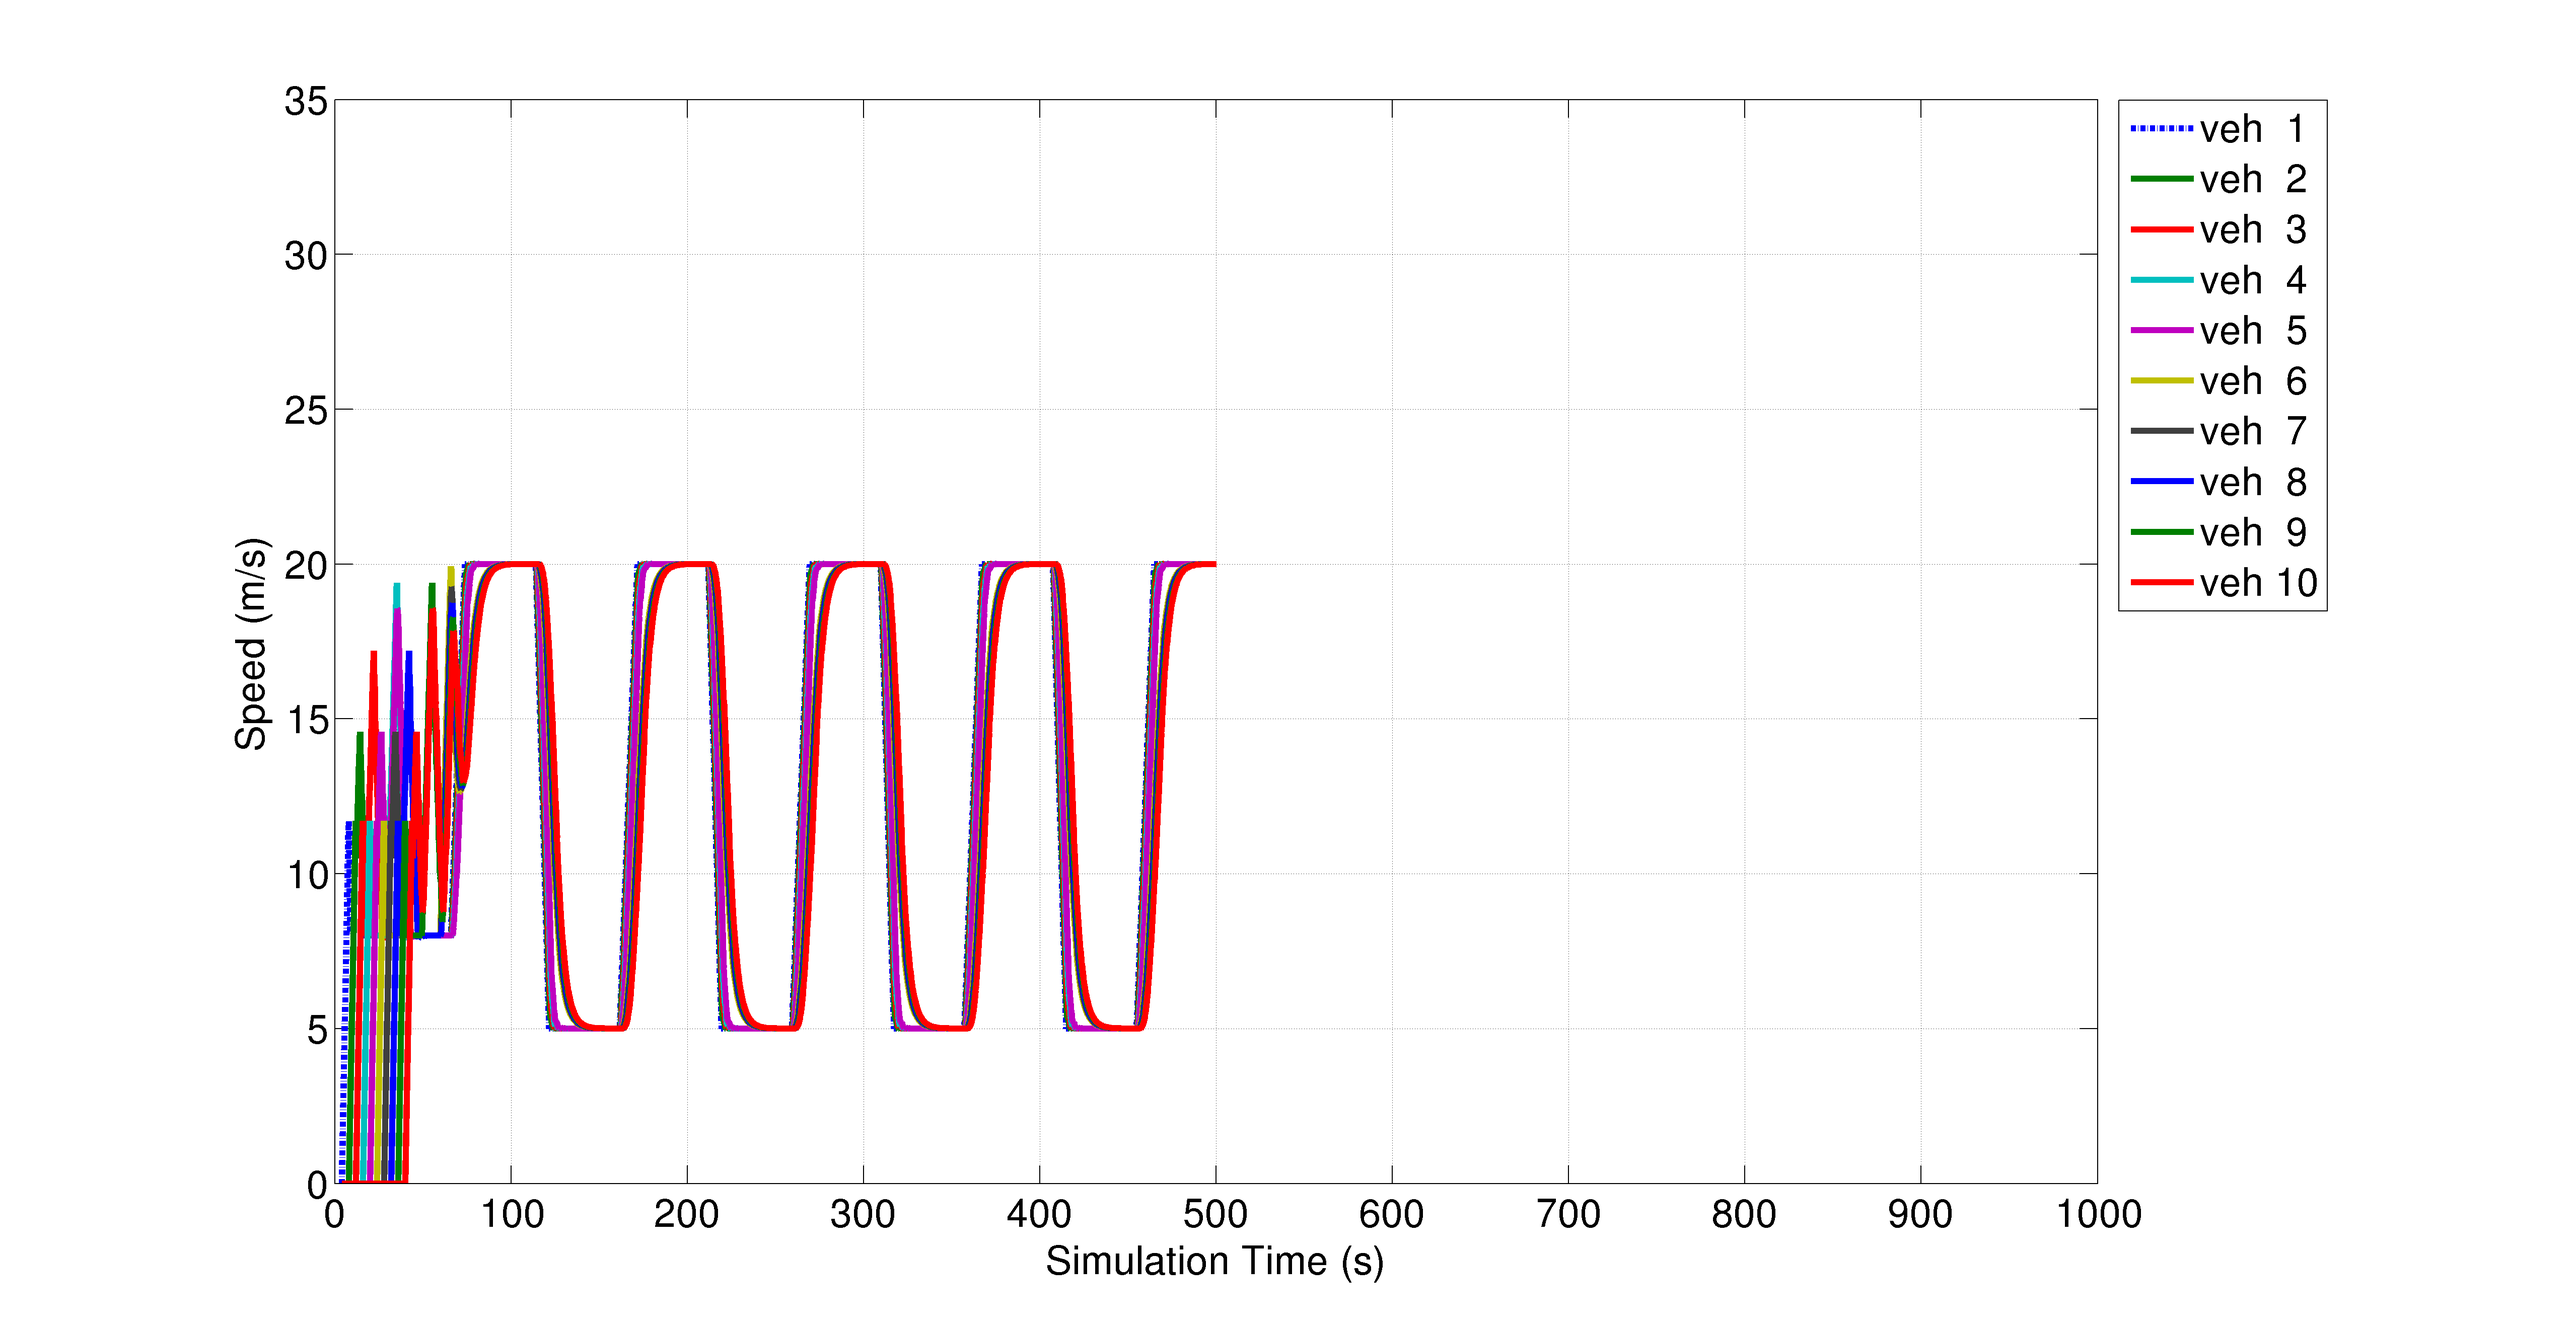
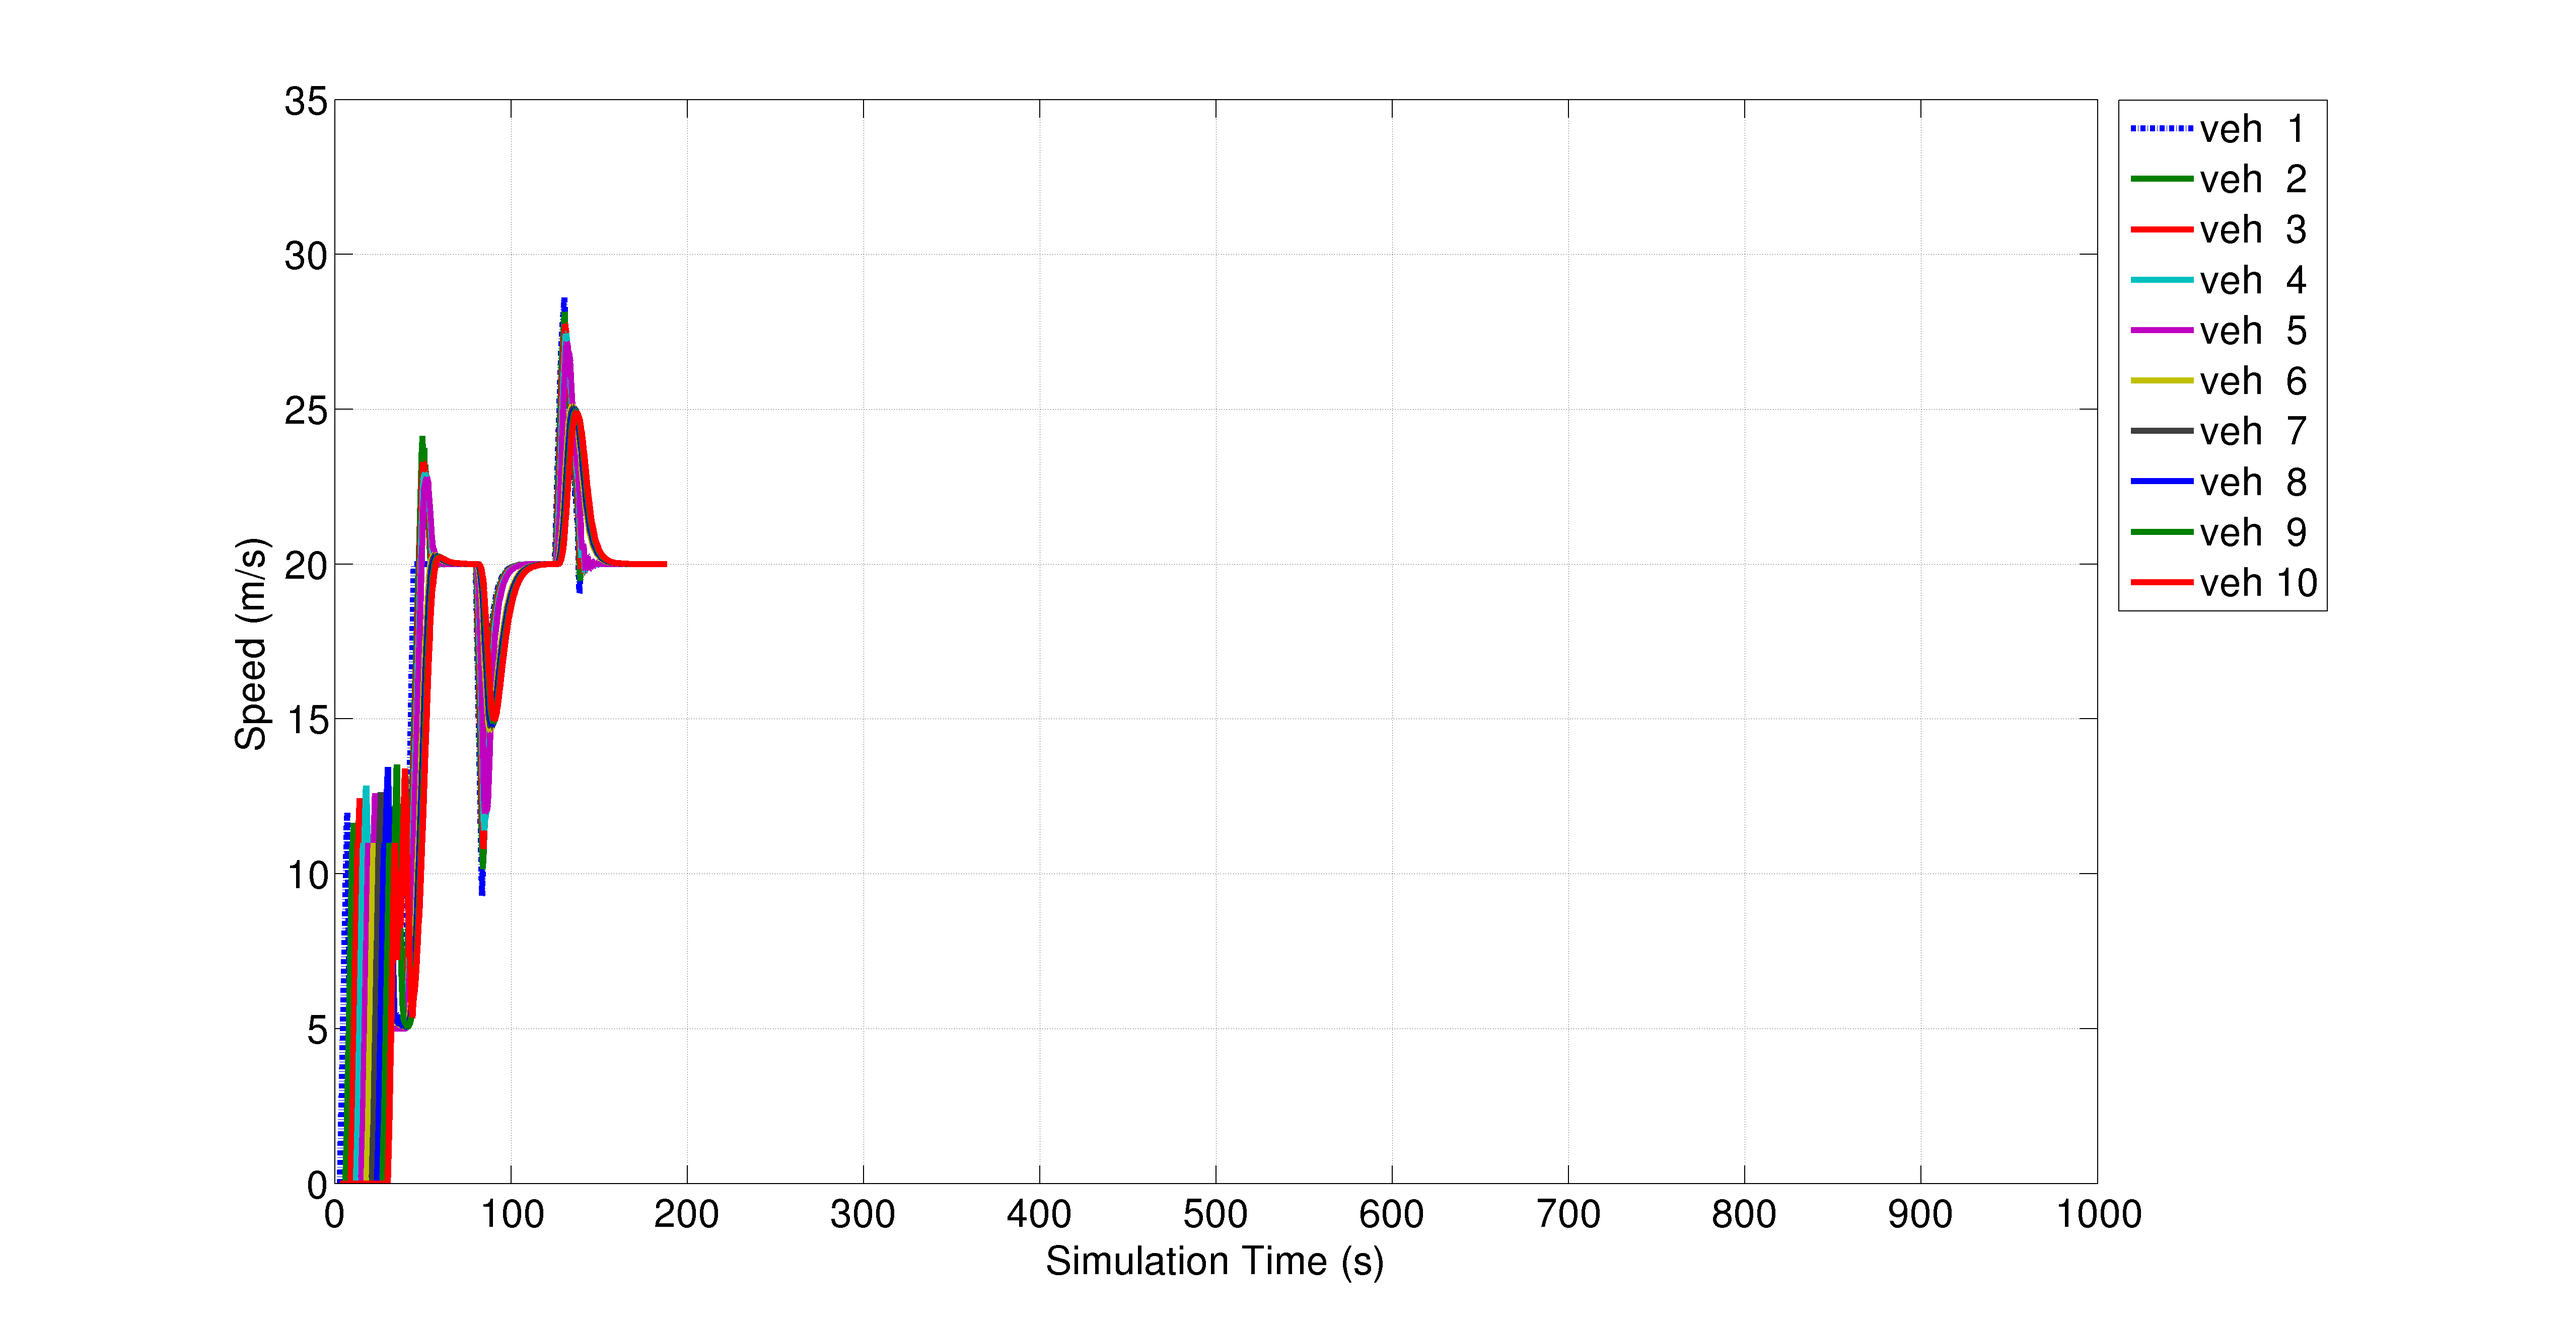
updating matlab script
Former-commit-id: 31f0464633ffa47214065219580e634cff59a85f
Former-commit-id: c2bf6bdf7bd94c7153506d817eb64575fee73b06

Changed region(s): [[0.1243, 0.2482, 0.4662, 0.8997]]

diff --git a/matlab/Speed.m b/matlab/Speed.m
@@ -14,7 +14,7 @@ xLimit = 1000;
 for s=1:1    
     
     if(s == 1)
-        path = '../results/gui/vehicleData.txt';
+        path = '../results/gui/twoPlatoons_stability/vehicleData.txt';
         figureName = 'Optimal Speed';
     elseif(s == 2)
         path = '../2.Result/speed-gap-21MSCFModel_KraussFixed.txt';
@@ -136,6 +136,20 @@ for s=1:1
     figName = sprintf('figure%d',fig);
     print('-dpng', '-r300', figName);
 
+    % --------------------------------------------------------------
+    
+    % save Veh6 data   
+    veh6(:,1) = vehiclesTS(:, 1);
+    veh6(:,2) = vehiclesSpeed(:, 6);
+    
+    fid = fopen('/home/mani/Desktop/VENTOS/sumo/trajectory_SplitMerge.txt','w');
+    
+    [rows, ~] = size(vehiclesSpeed);
+    
+    for i=1:rows
+        fprintf(fid,'%.2f \n', vehiclesSpeed(i, 6));        
+    end   
+    
     % --------------------------------------------------------------
     
     % gaps of vehicles 

diff --git a/matlab/ThroughputLoopDetector.m b/matlab/ThroughputLoopDetector.m
@@ -128,5 +128,29 @@ grid on;
 
 % -----------------------------------------------------------
 
+syms Q G_min V N Tg Tp Lv;
+
+V = 20;      % speed of the platoon 20 m/s = 72 km/h = 44.7 mph
+Tp = 3.5;    % time gap between platoons 3.5 s
+Lv = 5;      % vehicle length 5 m
+G_min = 2;   % minimum space gap
+Tg = 0.55;
+
+Q = ( (V*N) / ( N*(Lv + G_min) + (N-1)*Tg*V + Tp*V) ) * 3600;
+
+subaxis(1,2,1);
+hold on;
+
+h = ezplot(Q, [-1 20]);
+set(h,'LineWidth',3);
+
+%set( gca, 'XLim', [0 25] );
+%set( gca, 'YLim', [0 4000] );
+
+% set font size
+%set(gca, 'FontSize', 19);
+
+% -----------------------------------------------------------
+
 disp('done!');
 
